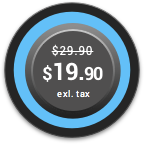
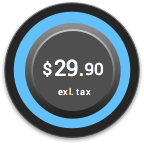
General Update

Changed region(s): [[0.2778, 0.3056, 0.7222, 0.5833], [0.3889, 0.6111, 0.6389, 0.6944]]

diff --git a/frosting.html b/frosting.html
@@ -169,7 +169,7 @@
                     <h2>Download / Purchase a License</h2>
                     <div class="col-md-6">
                         <img src="img/button-free.png" style="margin-top:10px;"/>
-                        <h3>Download demo version</h3>
+                        <h3>Download Frosting</h3>
                         <p>Download the <strong>Unlockable DEMO version </strong>of FROSTING.</p>
                         <p class="smalltext">You can evaluate this version as long as you want, and - when you're ready to purchase it - just come back here and press the "Buy Frosting" button on the right. You'll get a licence code to unlock your demo.</p>
                         <a href="http://ju-x.com/downloads/Frosting-Mac.zip" class="btn btn-success" style="margin:20px 10px 10px 10px;">Download for Mac</a> <a href="http://ju-x.com/downloads/Frosting-Win.zip" class="btn btn-success" style="margin:20px 10px 10px 10px;">Download for Win</a>
@@ -177,10 +177,9 @@
                     </div>
                     <div class="col-md-6">
                         <img src="img/button-buy.png" style="margin-top:10px;" />
-                        <h3>Purchase full version</h3>
-                        <p><strong>For a limited time, you can get Frosting for a special introductory price: only $19.90!</strong></p>
+                        <h3>Purchase a License</h3>
                         <p class="smalltext">Purchase a license key to enjoy the full version of FROSTING. You'll receive a key from us, just copy-paste it into your app.</p>
-                        <a href="#" class="paddle_button btn btn-danger" data-theme="none" data-product="507018" style="margin:20px 10px 10px 10px;">Buy Frosting</a>
+                        <a href="#" class="paddle_button btn btn-danger" data-theme="none" data-product="507018" style="margin:20px 10px 10px 10px;">Buy Frosting!</a>
                     </div>
                 </div>
             </div> <!--/container -->

diff --git a/index.html b/index.html
@@ -57,7 +57,7 @@
                         <div class="col-lg-8 col-lg-offset-2">
                             
                             <h1>Featured: Frosting</h1>
-                            <h2>It's ready to freeze now:) Add it to your collection of audio plugins today!</h2>
+                            <h2>It's catching the wave:)</h2>
                             
                             <a href="http://ju-x.com/downloads/Frosting-Mac.zip" class="btn btn-success" style="margin-bottom:20px;">Download for Mac</a> |
                             <a href="http://ju-x.com/downloads/Frosting-Win.zip" class="btn btn-success" style="margin-bottom:20px;">Download for Win</a> | 
